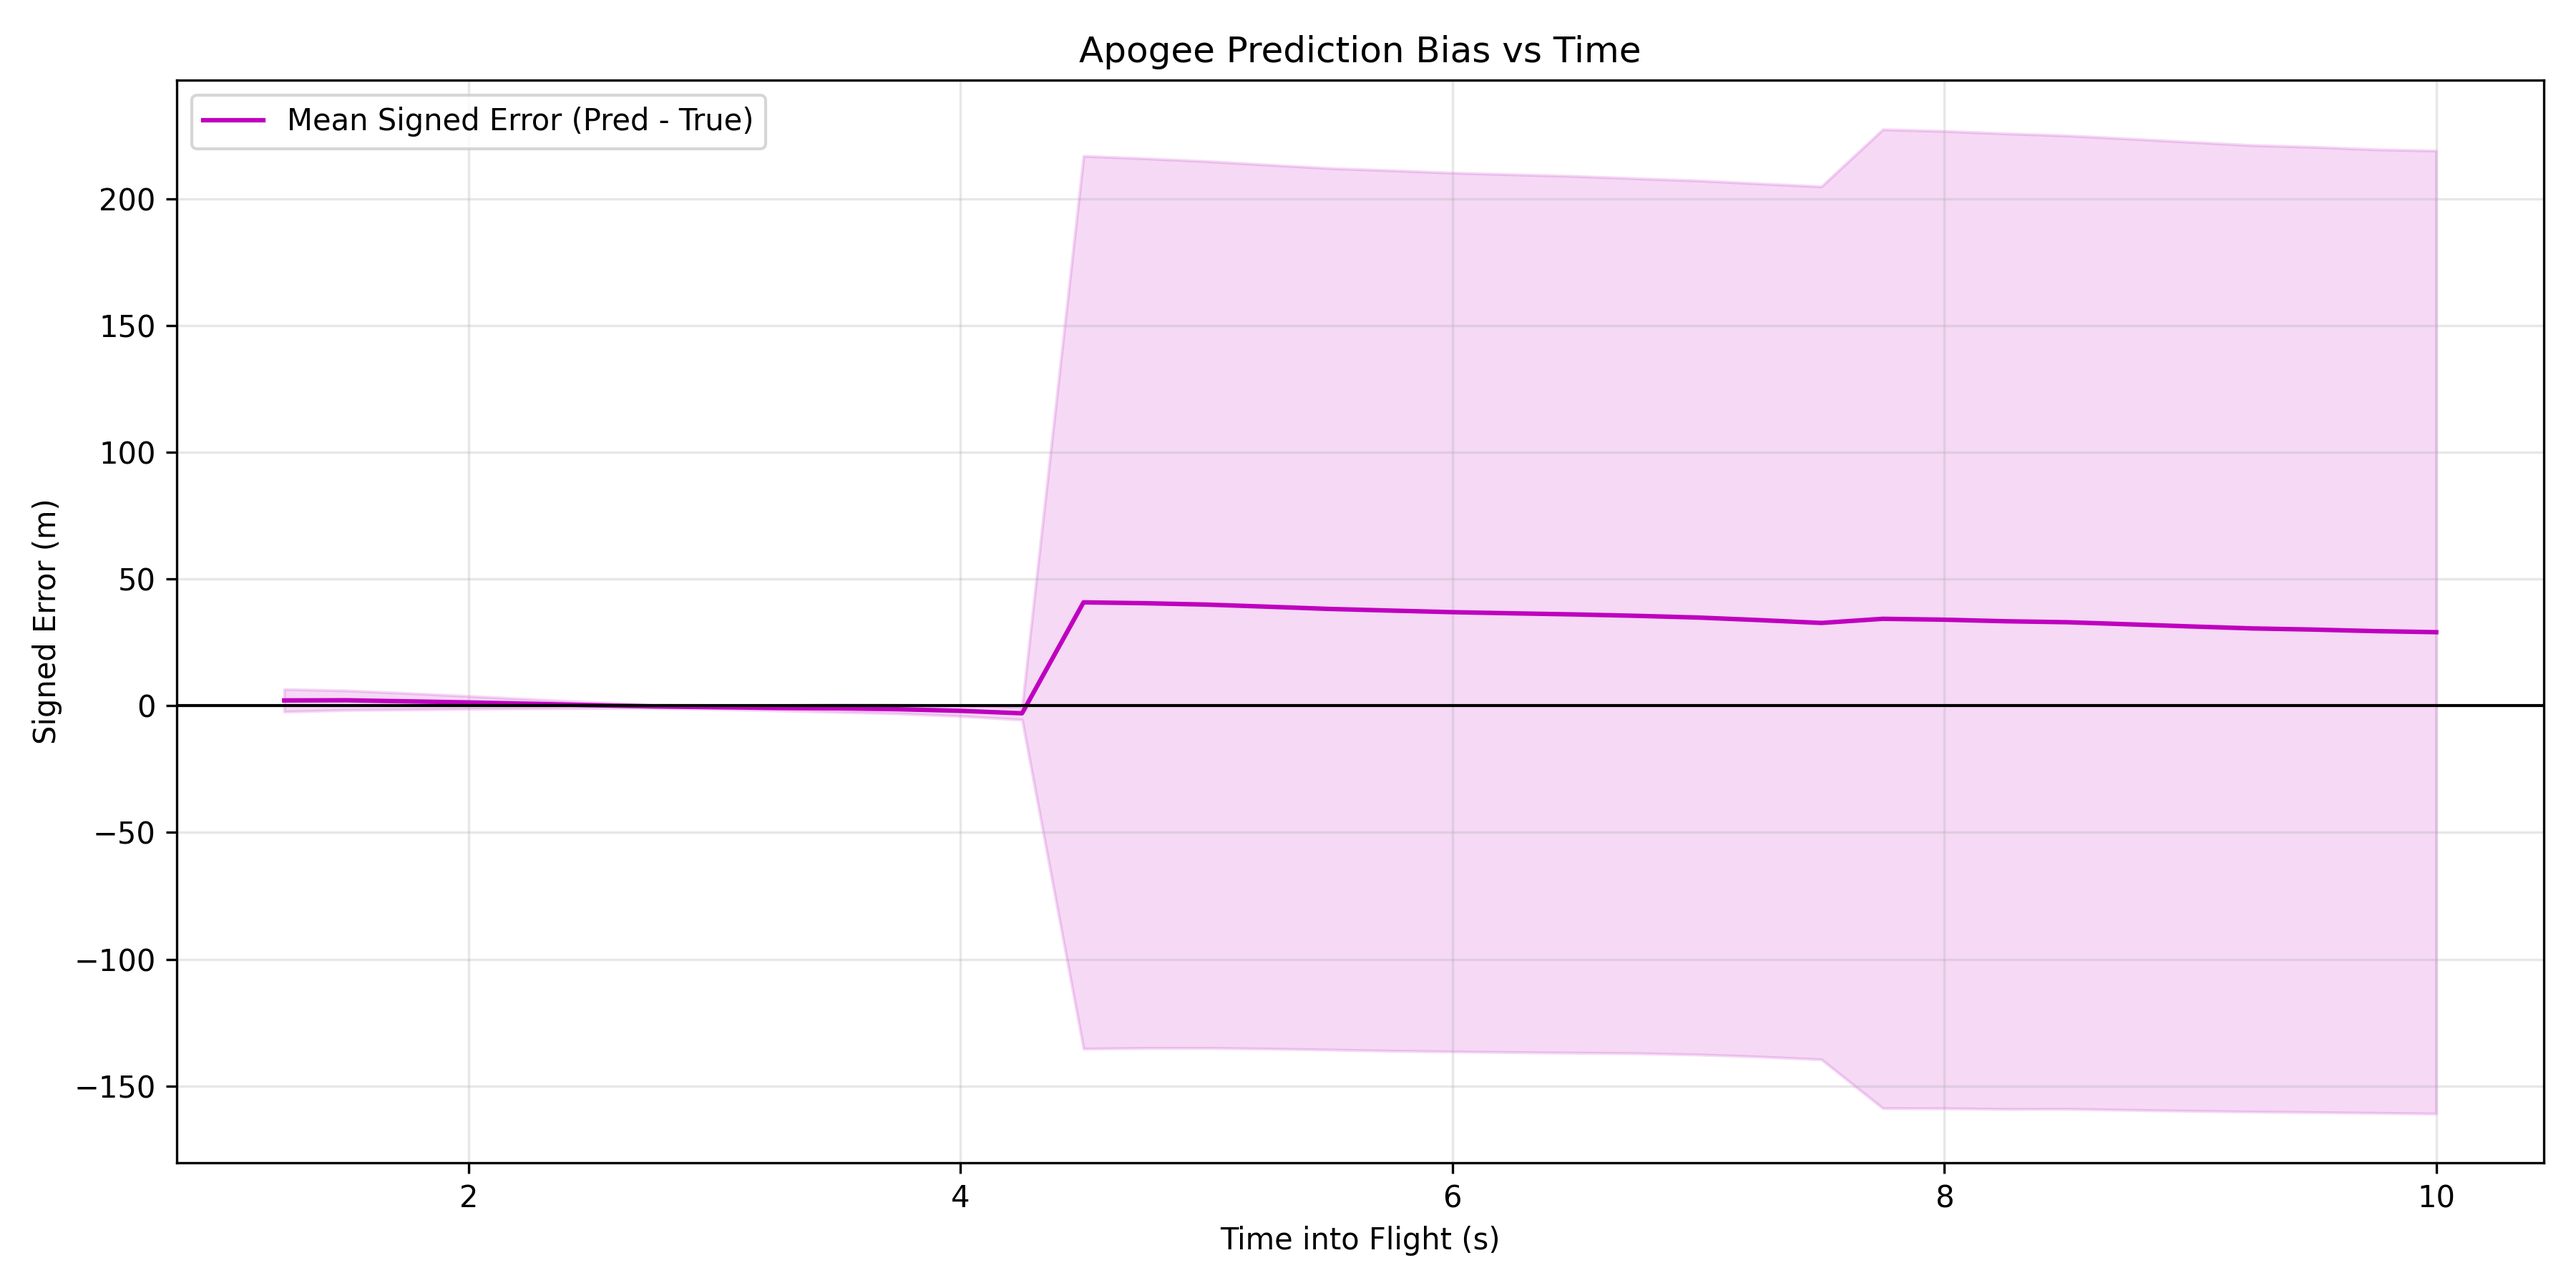
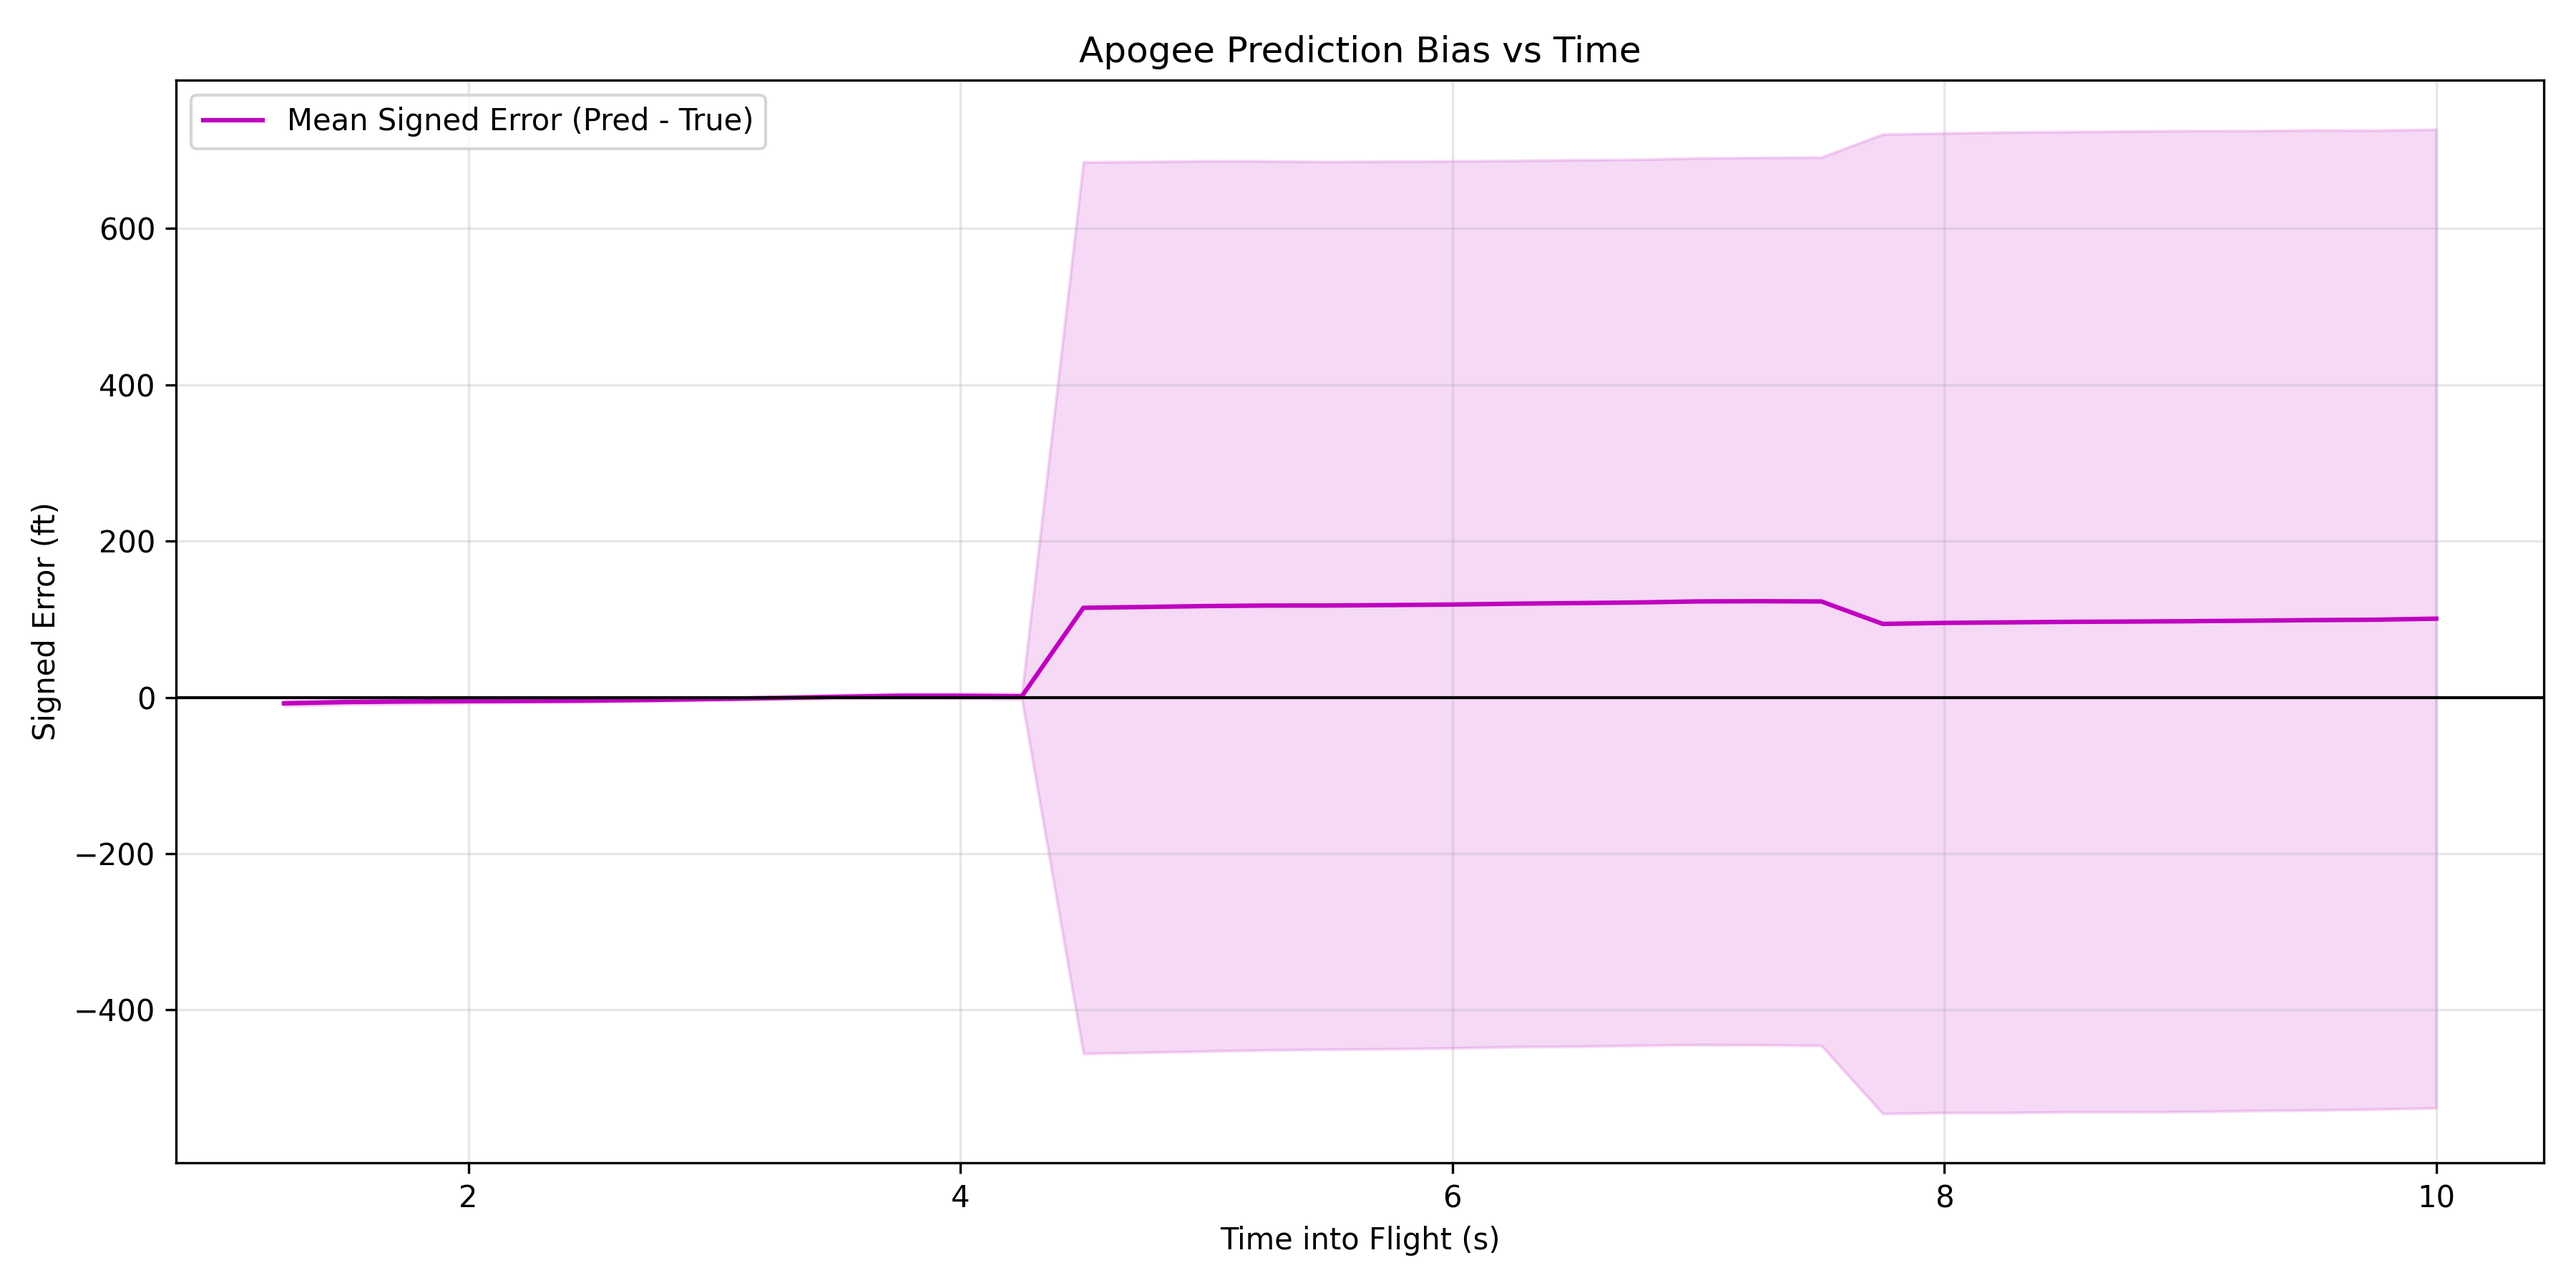
model training and results analysis

diff --git a/scripts/3_model_creation.py b/scripts/3_model_creation.py
@@ -26,13 +26,19 @@ from sklearn.linear_model import LinearRegression
 from sklearn.metrics import mean_squared_error
 from sklearn.model_selection import train_test_split
 from sklearn.preprocessing import StandardScaler
+import matplotlib.pyplot as plt
 
 # Paths
 CSV_PATH = Path(__file__).resolve().parent.parent / "data" / "processed" / "sliding_train_by_flight.csv"
 SCALERS_DIR = Path(__file__).resolve().parent.parent / "data" / "scalers"
 MODEL_DIR = Path(__file__).resolve().parent.parent / "models"
+ANALYSIS_DIR = Path(__file__).resolve().parent.parent / "analysis_results"
+# Constants
+M_TO_FT = 3.28084
+
 SCALERS_DIR.mkdir(parents=True, exist_ok=True)
 MODEL_DIR.mkdir(parents=True, exist_ok=True)
+ANALYSIS_DIR.mkdir(parents=True, exist_ok=True)
 
 
 class ApogeeMLP(nn.Module):
@@ -101,11 +107,14 @@ def train_mlp(
 
     epochs = 50
     batch_size = 64
+    
+    train_losses = []
+    val_losses = []
 
     for epoch in range(epochs):
         model.train()
         permutation = torch.randperm(train_tensor.size(0), device=device)
-        epoch_loss = 0.0
+        batch_losses = []
 
         for i in range(0, train_tensor.size(0), batch_size):
             indices = permutation[i : i + batch_size]
@@ -118,30 +127,88 @@ def train_mlp(
             loss.backward()
             optimizer.step()
 
-            epoch_loss += loss.item()
+            batch_losses.append(loss.item())
+
+        epoch_loss = sum(batch_losses) / len(batch_losses)
+        train_losses.append(epoch_loss)
 
         model.eval()
         with torch.no_grad():
             val_outputs = model(val_tensor)
             val_loss = criterion(val_outputs, val_targets).item()
+            val_losses.append(val_loss)
 
         print(
             f"Epoch {epoch + 1}/{epochs}, Train Loss: {epoch_loss:.4f}, Val Loss: {val_loss:.4f}"
         )
 
+    plt.figure(figsize=(10, 6))
+    plt.plot(train_losses, label='Training Loss')
+    plt.plot(val_losses, label='Validation Loss')
+    plt.title('MLP Model Training Performance')
+    plt.xlabel('Epoch')
+    plt.ylabel('Loss (MSE)')
+    plt.legend()
+    plt.grid(True)
+    plt.savefig(ANALYSIS_DIR / "mlp_training_loss.png")
+    plt.close()
+    print(f"✅ Saved MLP training plot to {ANALYSIS_DIR / 'mlp_training_loss.png'}")
+
     torch.save(model.state_dict(), MODEL_DIR / "apogee_mlp_model.pth")
     print("✅ Saved MLP model to apogee_mlp_model.pth")
 
-    val_rmse = _inverse_rmse(
-        y_val, val_outputs.detach().cpu().numpy().reshape(-1, 1), target_scaler
+    val_rmse = evaluate_model(
+        y_val, 
+        val_outputs.detach().cpu().numpy(), 
+        target_scaler, 
+        "MLP"
     )
     return val_rmse
 
 
-def _inverse_rmse(y_true_scaled: np.ndarray, y_pred_scaled: np.ndarray, target_scaler: StandardScaler) -> float:
-    """Compute RMSE in original units using the shared target scaler."""
-    y_true = target_scaler.inverse_transform(y_true_scaled.reshape(-1, 1))
-    y_pred = target_scaler.inverse_transform(y_pred_scaled.reshape(-1, 1))
+def evaluate_model(
+    y_true_scaled: np.ndarray, 
+    y_pred_scaled: np.ndarray, 
+    target_scaler: StandardScaler, 
+    model_name: str
+) -> float:
+    """Compute RMSE and generate evaluation plots in imperial units (feet)."""
+    y_true_m = target_scaler.inverse_transform(y_true_scaled.reshape(-1, 1))
+    y_pred_m = target_scaler.inverse_transform(y_pred_scaled.reshape(-1, 1))
+    
+    y_true = y_true_m * M_TO_FT
+    y_pred = y_pred_m * M_TO_FT
+
+    # 1. Prediction vs Actual Plot
+    plt.figure(figsize=(10, 6))
+    plt.scatter(y_true, y_pred, alpha=0.3)
+    min_val = min(y_true.min(), y_pred.min())
+    max_val = max(y_true.max(), y_pred.max())
+    plt.plot([min_val, max_val], [min_val, max_val], 'r--', lw=2, label='Perfect Prediction')
+    plt.xlabel('Actual Apogee (ft)')
+    plt.ylabel('Predicted Apogee (ft)')
+    plt.title(f'{model_name}: Prediction vs Actual')
+    plt.legend()
+    plt.grid(True, alpha=0.3)
+    plt.tight_layout()
+    plt.savefig(ANALYSIS_DIR / f"{model_name.lower().replace(' ', '_')}_pred_vs_actual.png")
+    plt.close()
+
+    # 2. Residual Plot
+    residuals = y_true - y_pred
+    plt.figure(figsize=(10, 6))
+    plt.scatter(y_pred, residuals, alpha=0.3)
+    plt.axhline(0, color='r', linestyle='--', lw=2)
+    plt.xlabel('Predicted Apogee (ft)')
+    plt.ylabel('Residuals (ft)')
+    plt.title(f'{model_name}: Residual Analysis')
+    plt.grid(True, alpha=0.3)
+    plt.tight_layout()
+    plt.savefig(ANALYSIS_DIR / f"{model_name.lower().replace(' ', '_')}_residuals.png")
+    plt.close()
+    
+    print(f"✅ Saved plots (imperial) for {model_name}")
+
     return float(np.sqrt(mean_squared_error(y_true, y_pred)))
 
 
@@ -163,7 +230,7 @@ def train_random_forest(
     model.fit(X_train, y_train.ravel())
 
     val_pred_scaled = model.predict(X_val)
-    val_rmse = _inverse_rmse(y_val, val_pred_scaled, target_scaler)
+    val_rmse = evaluate_model(y_val, val_pred_scaled, target_scaler, "Random Forest")
 
     joblib.dump(model, MODEL_DIR / "apogee_random_forest.pkl")
     print("✅ Saved Random Forest model to apogee_random_forest.pkl")
@@ -182,7 +249,7 @@ def train_linear_regression(
     model.fit(X_train, y_train)
 
     val_pred_scaled = model.predict(X_val)
-    val_rmse = _inverse_rmse(y_val, val_pred_scaled, target_scaler)
+    val_rmse = evaluate_model(y_val, val_pred_scaled, target_scaler, "Linear Regression")
 
     joblib.dump(model, MODEL_DIR / "apogee_linear_regression.pkl")
     print("✅ Saved Linear Regression model to apogee_linear_regression.pkl")
@@ -195,13 +262,13 @@ def main():
     print("Starting training for Apogee models...")
 
     mlp_rmse = train_mlp(X_train, X_val, y_train, y_val, target_scaler)
-    print(f"MLP validation RMSE (meters): {mlp_rmse:.2f}")
+    print(f"MLP validation RMSE (feet): {mlp_rmse:.2f}")
 
     rf_rmse = train_random_forest(X_train, X_val, y_train, y_val, target_scaler)
-    print(f"Random Forest validation RMSE (meters): {rf_rmse:.2f}")
+    print(f"Random Forest validation RMSE (feet): {rf_rmse:.2f}")
 
     lr_rmse = train_linear_regression(X_train, X_val, y_train, y_val, target_scaler)
-    print(f"Linear Regression validation RMSE (meters): {lr_rmse:.2f}")
+    print(f"Linear Regression validation RMSE (feet): {lr_rmse:.2f}")
 
 
 if __name__ == "__main__":

diff --git a/scripts/5_model_analysis.py b/scripts/5_model_analysis.py
@@ -19,6 +19,9 @@ data_dir = root_dir / "data" / "processed"
 output_dir = root_dir / "analysis_results"
 output_dir.mkdir(parents=True, exist_ok=True)
 
+# Constants
+M_TO_FT = 3.28084
+
 # === Load scalers ===
 input_scaler = joblib.load(scalers_dir / "apogee_input_scaler.pkl")
 target_scaler = joblib.load(scalers_dir / "apogee_target_scaler.pkl")
@@ -81,18 +84,18 @@ def check_overfitting():
     y_train_true, y_train_pred = _predict_from_df(train_df)
     y_test_true, y_test_pred = _predict_from_df(test_df)
 
-    train_rmse = np.sqrt(mean_squared_error(y_train_true, y_train_pred))
-    test_rmse = np.sqrt(mean_squared_error(y_test_true, y_test_pred))
-    train_mae = mean_absolute_error(y_train_true, y_train_pred)
-    test_mae = mean_absolute_error(y_test_true, y_test_pred)
+    train_rmse = np.sqrt(mean_squared_error(y_train_true, y_train_pred)) * M_TO_FT
+    test_rmse = np.sqrt(mean_squared_error(y_test_true, y_test_pred)) * M_TO_FT
+    train_mae = mean_absolute_error(y_train_true, y_train_pred) * M_TO_FT
+    test_mae = mean_absolute_error(y_test_true, y_test_pred) * M_TO_FT
 
-    print("=== Overfitting Analysis ===")
-    print(f"Training RMSE: {train_rmse:.2f} m")
-    print(f"Testing  RMSE: {test_rmse:.2f} m")
-    print(f"RMSE gap:      {test_rmse - train_rmse:.2f} m")
-    print(f"Training MAE:  {train_mae:.2f} m")
-    print(f"Testing  MAE:  {test_mae:.2f} m")
-    print(f"MAE gap:       {test_mae - train_mae:.2f} m")
+    print("=== Overfitting Analysis (Imperial) ===")
+    print(f"Training RMSE: {train_rmse:.2f} ft")
+    print(f"Testing  RMSE: {test_rmse:.2f} ft")
+    print(f"RMSE gap:      {test_rmse - train_rmse:.2f} ft")
+    print(f"Training MAE:  {train_mae:.2f} ft")
+    print(f"Testing  MAE:  {test_mae:.2f} ft")
+    print(f"MAE gap:       {test_mae - train_mae:.2f} ft")
 
     # FIX: return the test arrays computed above
     return test_df, y_test_true, y_test_pred
@@ -136,8 +139,8 @@ def analyze_flight_predictions(test_df: pd.DataFrame, y_true: np.ndarray, y_pred
         start = flight_idx * samples_per_flight
         end = start + samples_per_flight
 
-        preds_i = y_pred[start:end].flatten()
-        true_apogee = y_true[start][0]  # same target per flight across windows
+        preds_i = y_pred[start:end].flatten() * M_TO_FT
+        true_apogee = y_true[start][0] * M_TO_FT # same target per flight across windows
 
         # Restrict to time window for analysis
         preds_i = preds_i[time_mask]
@@ -177,8 +180,8 @@ def analyze_flight_predictions(test_df: pd.DataFrame, y_true: np.ndarray, y_pred
     for flight_idx in range(len(y_true) // samples_per_flight):
         s = flight_idx * samples_per_flight
         e = s + samples_per_flight
-        preds_i = y_pred[s:e].flatten()[time_mask]
-        true_apogee = y_true[s][0]
+        preds_i = y_pred[s:e].flatten()[time_mask] * M_TO_FT
+        true_apogee = y_true[s][0] * M_TO_FT
         signed_errors.append(preds_i - true_apogee)
     signed_errors = np.vstack(signed_errors) if signed_errors else np.empty((0, len(filtered_time)))
     mean_signed = np.mean(signed_errors, axis=0)
@@ -194,7 +197,7 @@ def analyze_flight_predictions(test_df: pd.DataFrame, y_true: np.ndarray, y_pred
     plt.fill_between(filtered_time, lower, upper, color='b', alpha=0.2, label='±1 Std')
     plt.title("Apogee Prediction Mean Absolute Error vs Time")
     plt.xlabel("Time into Flight (s)")
-    plt.ylabel("Absolute Error (m)")
+    plt.ylabel("Absolute Error (ft)")
     plt.grid(True, alpha=0.3)
     plt.legend()
     plt.tight_layout()
@@ -208,7 +211,7 @@ def analyze_flight_predictions(test_df: pd.DataFrame, y_true: np.ndarray, y_pred
     plt.axhline(0, color='k', lw=1)
     plt.title("Apogee Prediction Bias vs Time")
     plt.xlabel("Time into Flight (s)")
-    plt.ylabel("Signed Error (m)")
+    plt.ylabel("Signed Error (ft)")
     plt.grid(True, alpha=0.3)
     plt.legend()
     plt.tight_layout()
